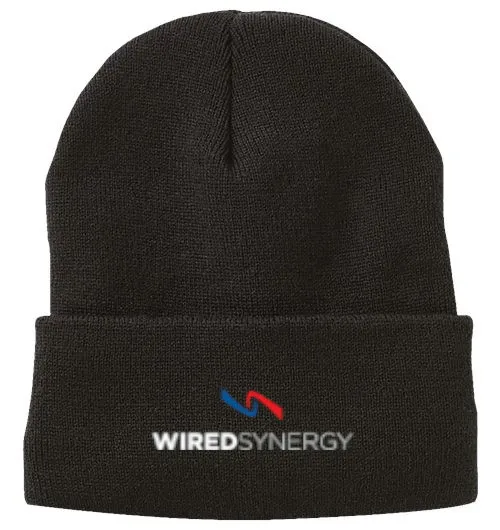
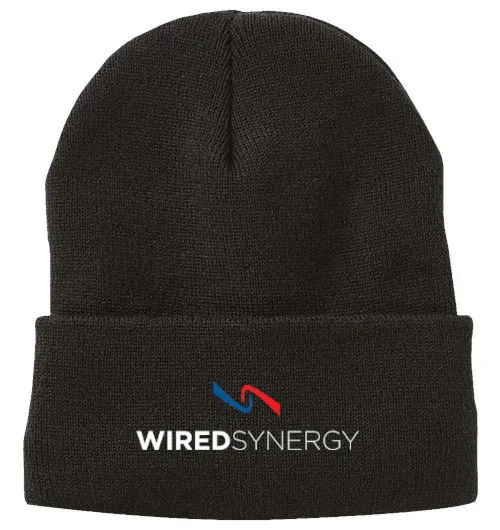
Catalog: real per-portal photos for Operate/Dade/CoalHarbour/golf + beanie
Wire the newly supplied per-portal product shots into all four portals
(portal-images.ts), replace the DB base placeholders, and add webp siblings:
- SG-21 Operate (Core 365 #88193): 88193-as/cf/ps/ws — was the Optimum placeholder.
- SG-22 Dade (Trimark #16398): 16398-as/cf/ps/ws — was the DryBlend placeholder.
- SG-6 Coal Harbour (#J7603): add Airtech (j7603-as) + Wired (j7603-ws); previously
  fell back to the Corflow shot.
- SG-23 Vice golf balls: add Powered (viceball-ps).
- SG-18 beanie (#56795): refreshed Wired shot.

Also re-optimized the portal header split mark/word PNGs + their webp siblings.

Changed region(s): [[0.27, 0.7245, 0.72, 0.8755]]

diff --git a/src/portal-images.ts b/src/portal-images.ts
@@ -28,6 +28,7 @@ export const PORTAL_SKU_IMAGES: Record<string, Record<string, PortalImageOverrid
     "SG-3": { img: "/portals/g2400-as.jpg", imgs: ["/portals/g2400-as.jpg"] },
     "SG-4": { img: "/portals/1370399-as.jpg", imgs: ["/portals/1370399-as.jpg"] },
     "SG-5": { img: "/portals/106674-as.png", imgs: ["/portals/106674-as.png"] },
+    "SG-6": { img: "/portals/j7603-as.jpg", imgs: ["/portals/j7603-as.jpg"] },
     "SG-7": { img: "/88194-as.png", imgs: ["/88194-as.png"] },
     "SG-13": { img: "/portals/L01110-as.jpg", imgs: ["/portals/L01110-as.jpg"] },
     "SG-14": { img: "/portals/110M-as.jpg", imgs: ["/portals/110M-as.jpg"] },
@@ -37,6 +38,8 @@ export const PORTAL_SKU_IMAGES: Record<string, Record<string, PortalImageOverrid
     "SG-18": { img: "/portals/56795-as.jpg", imgs: ["/portals/56795-as.jpg"] },
     "SG-19": { img: "/portals/g8800-as.jpg", imgs: ["/portals/g8800-as.jpg"] },
     "SG-20": { img: "/portals/M723-as.jpg", imgs: ["/portals/M723-as.jpg"] },
+    "SG-21": { img: "/portals/88193-as.jpg", imgs: ["/portals/88193-as.jpg"] },
+    "SG-22": { img: "/portals/16398-as.png", imgs: ["/portals/16398-as.png"] },
   },
   portal2: {
     "SG-1": { img: "/portals/g2000-cf.jpg", imgs: ["/portals/g2000-cf.jpg"] },
@@ -58,12 +61,15 @@ export const PORTAL_SKU_IMAGES: Record<string, Record<string, PortalImageOverrid
     "SG-18": { img: "/portals/56795-cf.jpg", imgs: ["/portals/56795-cf.jpg"] },
     "SG-19": { img: "/portals/g8800-cf.jpg", imgs: ["/portals/g8800-cf.jpg"] },
     "SG-20": { img: "/portals/M723-cf.png", imgs: ["/portals/M723-cf.png"] },
+    "SG-21": { img: "/portals/88193-cf.jpg", imgs: ["/portals/88193-cf.jpg"] },
+    "SG-22": { img: "/portals/16398-cf.png", imgs: ["/portals/16398-cf.png"] },
   },
   portal3: {
     "SG-1": { img: "/portals/g2000-ws.jpg", imgs: ["/portals/g2000-ws.jpg"] },
     "SG-2": { img: "/portals/g2300-ws.jpg", imgs: ["/portals/g2300-ws.jpg"] },
     "SG-3": { img: "/portals/g2400-ws.jpg", imgs: ["/portals/g2400-ws.jpg"] },
     "SG-5": { img: "/portals/106674-ws.jpg", imgs: ["/portals/106674-ws.jpg"] },
+    "SG-6": { img: "/portals/j7603-ws.jpg", imgs: ["/portals/j7603-ws.jpg"] },
     "SG-7": { img: "/88194-ws.png", imgs: ["/88194-ws.png"] },
     "SG-13": { img: "/portals/L01110-ws.jpg", imgs: ["/portals/L01110-ws.jpg"] },
     "SG-16": { img: "/portals/M585-ws.jpg", imgs: ["/portals/M585-ws.jpg"] },
@@ -71,6 +77,8 @@ export const PORTAL_SKU_IMAGES: Record<string, Record<string, PortalImageOverrid
     "SG-18": { img: "/portals/56795-ws.jpg", imgs: ["/portals/56795-ws.jpg"] },
     "SG-19": { img: "/portals/g8800-ws.jpg", imgs: ["/portals/g8800-ws.jpg"] },
     "SG-20": { img: "/portals/M723-ws.jpg", imgs: ["/portals/M723-ws.jpg"] },
+    "SG-21": { img: "/portals/88193-ws.jpg", imgs: ["/portals/88193-ws.jpg"] },
+    "SG-22": { img: "/portals/16398-ws.png", imgs: ["/portals/16398-ws.png"] },
   },
   portal4: {
     "SG-1": { img: "/portals/g2000-ps.jpg", imgs: ["/portals/g2000-ps.jpg"] },
@@ -92,6 +100,9 @@ export const PORTAL_SKU_IMAGES: Record<string, Record<string, PortalImageOverrid
     "SG-18": { img: "/portals/56795-ps.jpg", imgs: ["/portals/56795-ps.jpg"] },
     "SG-19": { img: "/portals/g8800-ps.jpg", imgs: ["/portals/g8800-ps.jpg"] },
     "SG-20": { img: "/portals/M723-ps.jpg", imgs: ["/portals/M723-ps.jpg"] },
+    "SG-21": { img: "/portals/88193-ps.jpg", imgs: ["/portals/88193-ps.jpg"] },
+    "SG-22": { img: "/portals/16398-ps.png", imgs: ["/portals/16398-ps.png"] },
+    "SG-23": { img: "/portals/viceball-ps.jpg", imgs: ["/portals/viceball-ps.jpg"] },
   },
 };
 

diff --git a/src/routes/apparel/products.ts b/src/routes/apparel/products.ts
@@ -354,9 +354,9 @@ export const allProducts = [
       "#1a1a18"
     ],
     "price": 54,
-    "img": "/88194-as.png",
+    "img": "/portals/88193-as.jpg",
     "imgs": [
-      "/88194-as.png"
+      "/portals/88193-as.jpg"
     ],
     "material": "4.4 oz/yd² / 150 gsm (US), 7.3 oz/L yd (CA), 55/45 cotton/polyester twill",
     "details": "UPF 40+ protection, Button-down collar, Adjustable cuffs, Left-chest pocket, Durable flat-felled side and underarm seams, Back yoke with box pleat, #88193"
@@ -371,12 +371,12 @@ export const allProducts = [
       "#1a1a18"
     ],
     "price": 40,
-    "img": "/portals/g8800-as.jpg",
+    "img": "/portals/16398-as.png",
     "imgs": [
-      "/portals/g8800-as.jpg"
+      "/portals/16398-as.png"
     ],
     "material": "100% polyester pique knit, moisture-wicking",
-    "details": "Moisture-wicking performance pique, Anti-odor finish, Self-fabric collar, Three-button placket with dyed-to-match buttons, Open hem sleeves, #M-DADE"
+    "details": "Moisture-wicking performance pique, Anti-odor finish, Self-fabric collar, Three-button placket with dyed-to-match buttons, Open hem sleeves, #16398"
   },
   {
     "sku": "SG-23",
